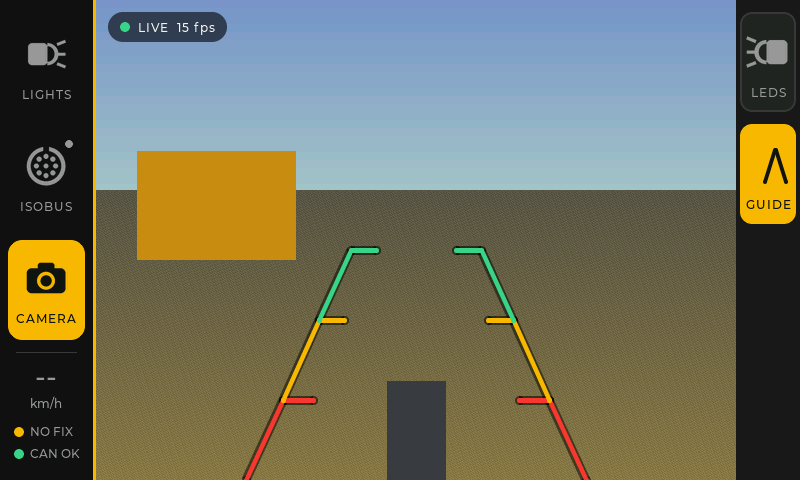
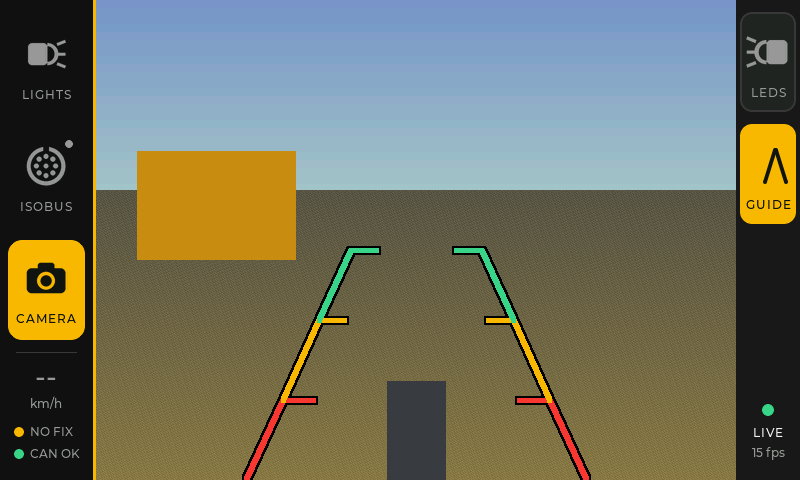
Camera: draw the picture straight to the screen (past LVGL)
Each decoded picture is copied right into the screen's frame buffer, with
the reversing lines drawn into it. LVGL only paints the black area, the
placeholder and the side column (LED, guide lines, LIVE/fps status).
Log line every 5 s: pictures/s and decode/draw time per picture.

Claude-Session: https://claude.ai/code/session_01AU4BwFkBTomj7H5jcvrz2B

diff --git a/src/ui.cpp b/src/ui.cpp
@@ -2,6 +2,9 @@
 
 #include "assets/assets.h"
 
+#include <algorithm>
+#include <cstdlib>
+
 namespace ui
 {
 	namespace
@@ -518,17 +521,11 @@ namespace ui
 
 	void Ui::build_camera_page(lv_obj_t *page)
 	{
-		// ---- the picture (full page height, 640 wide) ----
+		// ---- picture area: LVGL only paints it black; the picture is drawn straight to the screen ----
 		lv_obj_t *video = plain_box(page);
 		lv_obj_set_size(video, VIDEO_W, VIDEO_H);
-		lv_obj_set_style_bg_color(video, lv_color_hex(0x0C0C0C), 0);
+		lv_obj_set_style_bg_color(video, lv_color_hex(0x000000), 0);
 		lv_obj_set_style_bg_opa(video, LV_OPA_COVER, 0);
-		lv_obj_set_style_clip_corner(video, false, 0);
-
-		videoImg = lv_img_create(video);
-		lv_obj_clear_flag(videoImg, LV_OBJ_FLAG_CLICKABLE);
-		lv_obj_add_flag(videoImg, LV_OBJ_FLAG_HIDDEN);
-		lv_obj_center(videoImg);
 
 		videoPlaceholder = plain_box(video);
 		lv_obj_set_size(videoPlaceholder, VIDEO_W, 220);
@@ -540,43 +537,7 @@ namespace ui
 		placeholderText = text(videoPlaceholder, "Looking for the camera's WiFi (HESAB-CAM)", &lv_font_montserrat_14, colour::TEXT_DIM);
 		lv_obj_align(placeholderText, LV_ALIGN_TOP_MID, 0, 150);
 
-		// ---- guide lines (drawn over the picture) ----
-		guideLines = plain_box(video);
-		lv_obj_set_size(guideLines, VIDEO_W, VIDEO_H);
-		for (int pass = 0; pass < 2; pass++) // dark outline first, then the colour on top
-		{
-			for (int i = 0; i < 6; i++)
-			{
-				lv_obj_t *line = lv_line_create(guideLines);
-				lv_line_set_points(line, GUIDES[i], 3);
-				lv_obj_set_style_line_width(line, (0 == pass) ? 9 : 5, 0);
-				lv_obj_set_style_line_rounded(line, true, 0);
-				lv_obj_set_style_line_color(line, lv_color_hex((0 == pass) ? 0x000000 : GUIDE_COLOURS[i / 2]), 0);
-				lv_obj_set_style_line_opa(line, (0 == pass) ? LV_OPA_50 : LV_OPA_COVER, 0);
-				lv_obj_clear_flag(line, LV_OBJ_FLAG_CLICKABLE);
-			}
-		}
-		lv_obj_add_flag(guideLines, LV_OBJ_FLAG_HIDDEN); // only with a picture
-
-		// ---- status chip, top left of the picture ----
-		cameraChip = plain_box(video);
-		lv_obj_set_pos(cameraChip, 12, 12);
-		lv_obj_set_size(cameraChip, LV_SIZE_CONTENT, 30);
-		lv_obj_set_style_pad_left(cameraChip, 30, 0);
-		lv_obj_set_style_pad_right(cameraChip, 12, 0);
-		lv_obj_set_style_radius(cameraChip, 15, 0);
-		lv_obj_set_style_bg_color(cameraChip, lv_color_hex(0x000000), 0);
-		lv_obj_set_style_bg_opa(cameraChip, LV_OPA_60, 0);
-		cameraChipDot = plain_box(cameraChip);
-		lv_obj_set_size(cameraChipDot, 10, 10);
-		lv_obj_set_style_radius(cameraChipDot, LV_RADIUS_CIRCLE, 0);
-		lv_obj_set_style_bg_opa(cameraChipDot, LV_OPA_COVER, 0);
-		lv_obj_align(cameraChipDot, LV_ALIGN_LEFT_MID, -18, 0);
-		cameraChipText = text(cameraChip, "NO CAMERA", &lv_font_montserrat_12, colour::TEXT);
-		lv_obj_set_style_text_letter_space(cameraChipText, 1, 0);
-		lv_obj_align(cameraChipText, LV_ALIGN_LEFT_MID, 0, 0);
-
-		// ---- side buttons: camera LEDs, guide lines ----
+		// ---- side column: camera LEDs, guide lines, status ----
 		lv_obj_t *side = plain_box(page);
 		lv_obj_set_pos(side, VIDEO_W, 0);
 		lv_obj_set_size(side, PAGE_WIDTH - VIDEO_W, PAGE_HEIGHT);
@@ -598,29 +559,70 @@ namespace ui
 		}
 		style_side_button(linesButton, guidesShown);
 
+		cameraChipDot = plain_box(side);
+		lv_obj_set_size(cameraChipDot, 12, 12);
+		lv_obj_set_style_radius(cameraChipDot, LV_RADIUS_CIRCLE, 0);
+		lv_obj_set_style_bg_opa(cameraChipDot, LV_OPA_COVER, 0);
+		lv_obj_align(cameraChipDot, LV_ALIGN_BOTTOM_MID, 0, -64);
+		cameraChipText = text(side, "NO CAM", &lv_font_montserrat_12, colour::TEXT);
+		lv_obj_set_style_text_letter_space(cameraChipText, 1, 0);
+		lv_obj_align(cameraChipText, LV_ALIGN_BOTTOM_MID, 0, -40);
+		cameraFpsText = text(side, "", &lv_font_montserrat_12, colour::TEXT_DIM);
+		lv_obj_align(cameraFpsText, LV_ALIGN_BOTTOM_MID, 0, -20);
+
 		set_camera_state(CameraState::NoWifi, 0.0f);
 	}
 
-	void Ui::show_camera_frame(const std::uint16_t *pixels, int width, int height)
+	void Ui::camera_frame_shown()
 	{
-		videoDsc.header.always_zero = 0;
-		videoDsc.header.cf = LV_IMG_CF_TRUE_COLOR;
-		videoDsc.header.w = static_cast<std::uint32_t>(width);
-		videoDsc.header.h = static_cast<std::uint32_t>(height);
-		videoDsc.data_size = static_cast<std::uint32_t>(width * height * 2);
-		videoDsc.data = reinterpret_cast<const std::uint8_t *>(pixels);
-		lv_img_cache_invalidate_src(&videoDsc); // same descriptor, new pixels
-		lv_img_set_src(videoImg, &videoDsc);
-		lv_obj_center(videoImg);
-
 		if (!haveFrame)
 		{
 			haveFrame = true;
-			lv_obj_clear_flag(videoImg, LV_OBJ_FLAG_HIDDEN);
 			lv_obj_add_flag(videoPlaceholder, LV_OBJ_FLAG_HIDDEN);
-			if (guidesShown)
+		}
+	}
+
+	void Ui::draw_guides(std::uint16_t *pixels, int width, int height)
+	{
+		// Thick line by stamping squares along it (only ~600 points per picture)
+		auto stamp = [&](int cx, int cy, int half, std::uint16_t colour) {
+			for (int y = cy - half; y <= cy + half; y++)
 			{
-				lv_obj_clear_flag(guideLines, LV_OBJ_FLAG_HIDDEN);
+				if ((y < 0) || (y >= height))
+				{
+					continue;
+				}
+				std::uint16_t *row = pixels + y * width;
+				for (int x = cx - half; x <= cx + half; x++)
+				{
+					if ((x >= 0) && (x < width))
+					{
+						row[x] = colour;
+					}
+				}
+			}
+		};
+		auto rgb565 = [](std::uint32_t rgb) {
+			return static_cast<std::uint16_t>(((rgb >> 8) & 0xF800) | ((rgb >> 5) & 0x07E0) | ((rgb >> 3) & 0x001F));
+		};
+		for (int pass = 0; pass < 2; pass++) // dark edge first, colour on top
+		{
+			for (int i = 0; i < 6; i++)
+			{
+				std::uint16_t colour = (0 == pass) ? 0x0000 : rgb565(GUIDE_COLOURS[i / 2]);
+				int half = (0 == pass) ? 4 : 2;
+				for (int segment = 0; segment < 2; segment++)
+				{
+					const lv_point_t &a = GUIDES[i][segment];
+					const lv_point_t &b = GUIDES[i][segment + 1];
+					int steps = std::max(std::abs(b.x - a.x), std::abs(b.y - a.y));
+					for (int step = 0; step <= steps; step++)
+					{
+						int x = a.x + (b.x - a.x) * step / std::max(steps, 1);
+						int y = a.y + (b.y - a.y) * step / std::max(steps, 1);
+						stamp(x * width / VIDEO_W, y * height / VIDEO_H, half, colour);
+					}
+				}
 			}
 		}
 	}
@@ -628,27 +630,29 @@ namespace ui
 	void Ui::set_camera_state(CameraState state, float fps)
 	{
 		std::uint32_t dot = colour::RED;
-		char chip[32] = "NO CAMERA";
+		const char *status = "NO CAM";
+		char rate[16] = "";
 		if (CameraState::Streaming == state)
 		{
 			dot = colour::GREEN;
-			lv_snprintf(chip, sizeof(chip), "LIVE  %d fps", static_cast<int>(fps + 0.5f));
+			status = "LIVE";
+			lv_snprintf(rate, sizeof(rate), "%d fps", static_cast<int>(fps + 0.5f));
 		}
 		else if (CameraState::Connecting == state)
 		{
 			dot = colour::YELLOW;
-			lv_snprintf(chip, sizeof(chip), "CONNECTING");
+			status = "WAIT";
 		}
 		lv_obj_set_style_bg_color(cameraChipDot, lv_color_hex(dot), 0);
-		lv_label_set_text(cameraChipText, chip);
+		lv_label_set_text(cameraChipText, status);
+		lv_label_set_text(cameraFpsText, rate);
 
 		if (CameraState::Streaming != state)
 		{
 			// Never leave a frozen picture on screen: it would look like a live view
 			haveFrame = false;
-			lv_obj_add_flag(videoImg, LV_OBJ_FLAG_HIDDEN);
-			lv_obj_add_flag(guideLines, LV_OBJ_FLAG_HIDDEN);
 			lv_obj_clear_flag(videoPlaceholder, LV_OBJ_FLAG_HIDDEN);
+			lv_obj_invalidate(lv_obj_get_parent(videoPlaceholder)); // repaint the whole picture area black
 			bool noWifi = (CameraState::NoWifi == state);
 			lv_label_set_text(placeholderTitle, noWifi ? "No camera" : "Connecting...");
 			lv_label_set_text(placeholderText, noWifi ? "Looking for the camera's WiFi (HESAB-CAM)" : "Camera found, waiting for the picture");
@@ -673,15 +677,7 @@ namespace ui
 	void Ui::guide_lines_clicked(lv_event_t *e)
 	{
 		auto *self = static_cast<Ui *>(lv_event_get_user_data(e));
-		self->guidesShown = !self->guidesShown;
+		self->guidesShown = !self->guidesShown; // drawn into each picture
 		self->style_side_button(self->linesButton, self->guidesShown);
-		if (self->guidesShown && self->haveFrame)
-		{
-			lv_obj_clear_flag(self->guideLines, LV_OBJ_FLAG_HIDDEN);
-		}
-		else
-		{
-			lv_obj_add_flag(self->guideLines, LV_OBJ_FLAG_HIDDEN);
-		}
 	}
 }

diff --git a/src/camera_feed.cpp b/src/camera_feed.cpp
@@ -8,6 +8,7 @@
 #include "esp_jpeg_dec.h"
 #include "esp_log.h"
 #include "esp_netif.h"
+#include "esp_timer.h"
 #include "esp_wifi.h"
 #include "freertos/FreeRTOS.h"
 #include "freertos/task.h"
@@ -255,6 +256,10 @@ namespace camera
 			handle_jpeg(jpeg, length);
 		});
 		lastFrameMs = now_ms();
+		timingStartMs = 0;
+		decodeUs = 0;
+		showUs = 0;
+		timedFrames = 0;
 		fpsWindowStartMs = lastFrameMs;
 		fpsWindowFrames = 0;
 		static std::uint8_t buffer[4096];
@@ -299,6 +304,7 @@ namespace camera
 
 	void Feed::handle_jpeg(const std::uint8_t *jpeg, std::size_t length)
 	{
+		std::int64_t decodeStart = esp_timer_get_time();
 		jpeg_dec_config_t config = DEFAULT_JPEG_DEC_CONFIG();
 		config.output_type = JPEG_PIXEL_FORMAT_RGB565_LE; // LVGL's 16-bit colour, no byte swap
 
@@ -332,7 +338,8 @@ namespace camera
 			return;
 		}
 
-		// Show it: the UI now points at this buffer; the next picture goes into the other one
+		// Show it (straight to the screen, see main.cpp)
+		std::int64_t showStart = esp_timer_get_time();
 		if (board::lvgl_lock(100))
 		{
 			if (handler)
@@ -342,8 +349,26 @@ namespace camera
 			board::lvgl_unlock();
 			backBuffer ^= 1;
 		}
+		std::int64_t showEnd = esp_timer_get_time();
+		decodeUs += static_cast<std::uint64_t>(showStart - decodeStart);
+		showUs += static_cast<std::uint64_t>(showEnd - showStart);
+		timedFrames++;
 
 		std::uint32_t now = now_ms();
+		if (0 == timingStartMs)
+		{
+			timingStartMs = now;
+		}
+		else if (now - timingStartMs >= 5000)
+		{
+			ESP_LOGI(TAG, "Display: %.1f pictures/s | decode %lu ms, draw %lu ms per picture",
+			         timedFrames * 1000.0f / (now - timingStartMs), static_cast<unsigned long>(decodeUs / 1000 / timedFrames),
+			         static_cast<unsigned long>(showUs / 1000 / timedFrames));
+			decodeUs = 0;
+			showUs = 0;
+			timedFrames = 0;
+			timingStartMs = now;
+		}
 		lastFrameMs = now;
 		currentState = State::Streaming;
 		fpsWindowFrames++;

diff --git a/src/ui.hpp b/src/ui.hpp
@@ -88,8 +88,16 @@ namespace ui
 		// Speed in the tab rail. gpsConnected = NMEA data arriving, fix = receiver has a position.
 		void set_speed(bool gpsConnected, bool fix, float speedKmh, int satellites);
 
-		// Camera page. show_camera_frame keeps a pointer to pixels (RGB565) until the next call.
-		void show_camera_frame(const std::uint16_t *pixels, int width, int height);
+		// Camera page. The picture itself is drawn straight to the screen (board::draw_pixels) into
+		// this area; LVGL only draws the black box, the placeholder and the side buttons.
+		static constexpr int VIDEO_X = RAIL_WIDTH; // screen coordinates
+		static constexpr int VIDEO_Y = 0;
+		static constexpr int VIDEO_WIDTH = 640;
+		static constexpr int VIDEO_HEIGHT = 480;
+		bool camera_visible() const { return Tab::Camera == currentTab; }
+		bool guides_shown() const { return guidesShown; }
+		void camera_frame_shown(); // first picture: hides the placeholder
+		static void draw_guides(std::uint16_t *pixels, int width, int height); // reversing lines into a picture
 		void set_camera_state(CameraState state, float fps);
 		void set_camera_led(bool on); // what the camera reports
 		void set_camera_led_handler(std::function<void(bool wantOn)> handler) { onCameraLed = std::move(handler); }
@@ -149,15 +157,12 @@ namespace ui
 
 		// Camera page
 		std::function<void(bool)> onCameraLed;
-		lv_img_dsc_t videoDsc{};
-		lv_obj_t *videoImg = nullptr;
 		lv_obj_t *videoPlaceholder = nullptr;
 		lv_obj_t *placeholderTitle = nullptr;
 		lv_obj_t *placeholderText = nullptr;
-		lv_obj_t *cameraChip = nullptr;
 		lv_obj_t *cameraChipDot = nullptr;
 		lv_obj_t *cameraChipText = nullptr;
-		lv_obj_t *guideLines = nullptr;
+		lv_obj_t *cameraFpsText = nullptr;
 		lv_obj_t *ledButton = nullptr;
 		lv_obj_t *linesButton = nullptr;
 		bool cameraLedOn = false;

diff --git a/src/camera_feed.hpp b/src/camera_feed.hpp
@@ -24,8 +24,8 @@ namespace camera
 		static constexpr int MAX_WIDTH = 640;
 		static constexpr int MAX_HEIGHT = 480;
 
-		// Called from the feed task WITH the LVGL lock held. pixels stay valid until the next call.
-		using FrameHandler = std::function<void(const std::uint16_t *pixels, int width, int height)>;
+		// Called from the feed task WITH the LVGL lock held, for every decoded picture (RGB565).
+		using FrameHandler = std::function<void(std::uint16_t *pixels, int width, int height)>;
 
 		bool start(FrameHandler onFrame);
 
@@ -63,6 +63,11 @@ namespace camera
 		std::uint32_t lastFrameMs = 0;
 		std::uint32_t fpsWindowStartMs = 0;
 		std::uint32_t fpsWindowFrames = 0;
+		// Where the display's time goes (logged every 5 s while streaming)
+		std::uint64_t decodeUs = 0;
+		std::uint64_t showUs = 0;
+		std::uint32_t timedFrames = 0;
+		std::uint32_t timingStartMs = 0;
 		bool wifiLostLogged = false;
 
 		static void on_wifi_event(void *self, const char *base, std::int32_t id, void *data);

diff --git a/src/main.cpp b/src/main.cpp
@@ -449,8 +449,20 @@ extern "C" void app_main()
 	if (nullptr != screenUi)
 	{
 		ui::Ui *cameraPage = screenUi.get();
-		cameraFeed.start([cameraPage](const std::uint16_t *pixels, int width, int height) {
-			cameraPage->show_camera_frame(pixels, width, height);
+		cameraFeed.start([cameraPage](std::uint16_t *pixels, int width, int height) {
+			// Runs with the LVGL lock held, so the tab can't change halfway
+			if (!cameraPage->camera_visible())
+			{
+				return;
+			}
+			if (cameraPage->guides_shown())
+			{
+				ui::Ui::draw_guides(pixels, width, height);
+			}
+			int x = ui::Ui::VIDEO_X + (ui::Ui::VIDEO_WIDTH - width) / 2;
+			int y = ui::Ui::VIDEO_Y + (ui::Ui::VIDEO_HEIGHT - height) / 2;
+			board::draw_pixels(x, y, x + width, y + height, pixels);
+			cameraPage->camera_frame_shown();
 		});
 	}
 

diff --git a/src/board.hpp b/src/board.hpp
@@ -15,6 +15,10 @@ namespace board
 	bool lvgl_lock(std::uint32_t timeoutMs = 0xFFFFFFFF);
 	void lvgl_unlock();
 
+	// Copies RGB565 pixels straight into the screen, past LVGL (x2/y2 exclusive).
+	// Used for the camera picture: much faster than drawing it through LVGL. Hold the LVGL lock.
+	void draw_pixels(int x1, int y1, int x2, int y2, const void *pixels);
+
 	// True if the GT911 touch controller answered during init
 	bool touch_available();
 }

diff --git a/src/board.cpp b/src/board.cpp
@@ -299,6 +299,14 @@ namespace board
 		xSemaphoreGiveRecursive(lvglMutex);
 	}
 
+	void draw_pixels(int x1, int y1, int x2, int y2, const void *pixels)
+	{
+		if (nullptr != panel)
+		{
+			esp_lcd_panel_draw_bitmap(panel, x1, y1, x2, y2, pixels);
+		}
+	}
+
 	bool touch_available()
 	{
 		return 0 != gt911Address;
